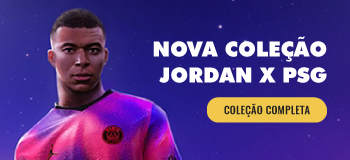
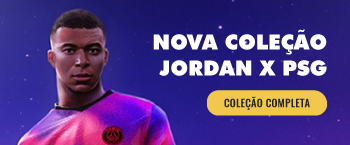
UI Nike - Aplicação mobile com react native e Expo

diff --git a/src/pages/Home/index.js b/src/pages/Home/index.js
@@ -1,9 +1,11 @@
 import React from 'react';
 import { useNavigation } from '@react-navigation/native';
-import { View, StyleSheet, Image, ScrollView, FlatList, TouchableOpacity, Text } from 'react-native';
+import { View, StyleSheet, Image, ScrollView, FlatList, TouchableOpacity, Text, Dimensions } from 'react-native';
 import { Ionicons, FontAwesome, FontAwesome5, MaterialCommunityIcons } from '@expo/vector-icons'; 
 
 import Header from '../../components/Header';
+
+const { width } = Dimensions.get('window');
 
 export default function Home() {
   const navigation = useNavigation();
@@ -22,7 +24,7 @@ export default function Home() {
         >
           <Image 
             source={image}
-            style={styles.imageSlider} 
+            style={styles.imageSlider}
             resizeMode="cover" 
           />
         </TouchableOpacity>
@@ -153,15 +155,21 @@ const styles = StyleSheet.create({
     height: 'auto',
   },
   containerSlider: {
+    flex: 1,
+    resizeMode: 'cover',
     width: '100%',
-    padding: 20,
     height: 'auto',
+    paddingVertical: 20,
   },
   imageSlider: {
+    flex: 1,
     flexDirection: 'row',
-    width: 355,
-    height: 145,
+    alignItems: 'center',
+    justifyContent: 'center',
+    width: width - 40,
     borderRadius: 10,
+    marginLeft: 20,
+    marginRight: 20,
   },
   categories: {
     flex: 1,

diff --git a/README.md b/README.md
@@ -9,7 +9,7 @@ Aplicação mobile desenvolvida com React Native e Expo
 <li><strong>Expo:</strong> É uma ferramenta utilizada no desenvolvimento mobile com React Native que permite o fácil acesso às API's nativas do dispositivo sem precisar instalar qualquer dependência ou alterar código nativo.</li>
 <br><br>
 <pre>
-<h2>🚀 Baixando aplicação:</h2><span class="pl-c"><span class="pl-c">#</span> Clone o projeto a partir do meu repositório:</span>
+<h2>🚀 Baixando aplicação:</h2><span class="pl-c"><span class="pl-c">#</span> Clone o projeto a partir do meu repositório do GitHub:</span>
 $ git clone ...<br>
 <span class="pl-c"><span class="pl-c">#</span> Entre no diretório via prompt de comando:</span>
 $ <span class="pl-c1">cd</span> nike_react_native
